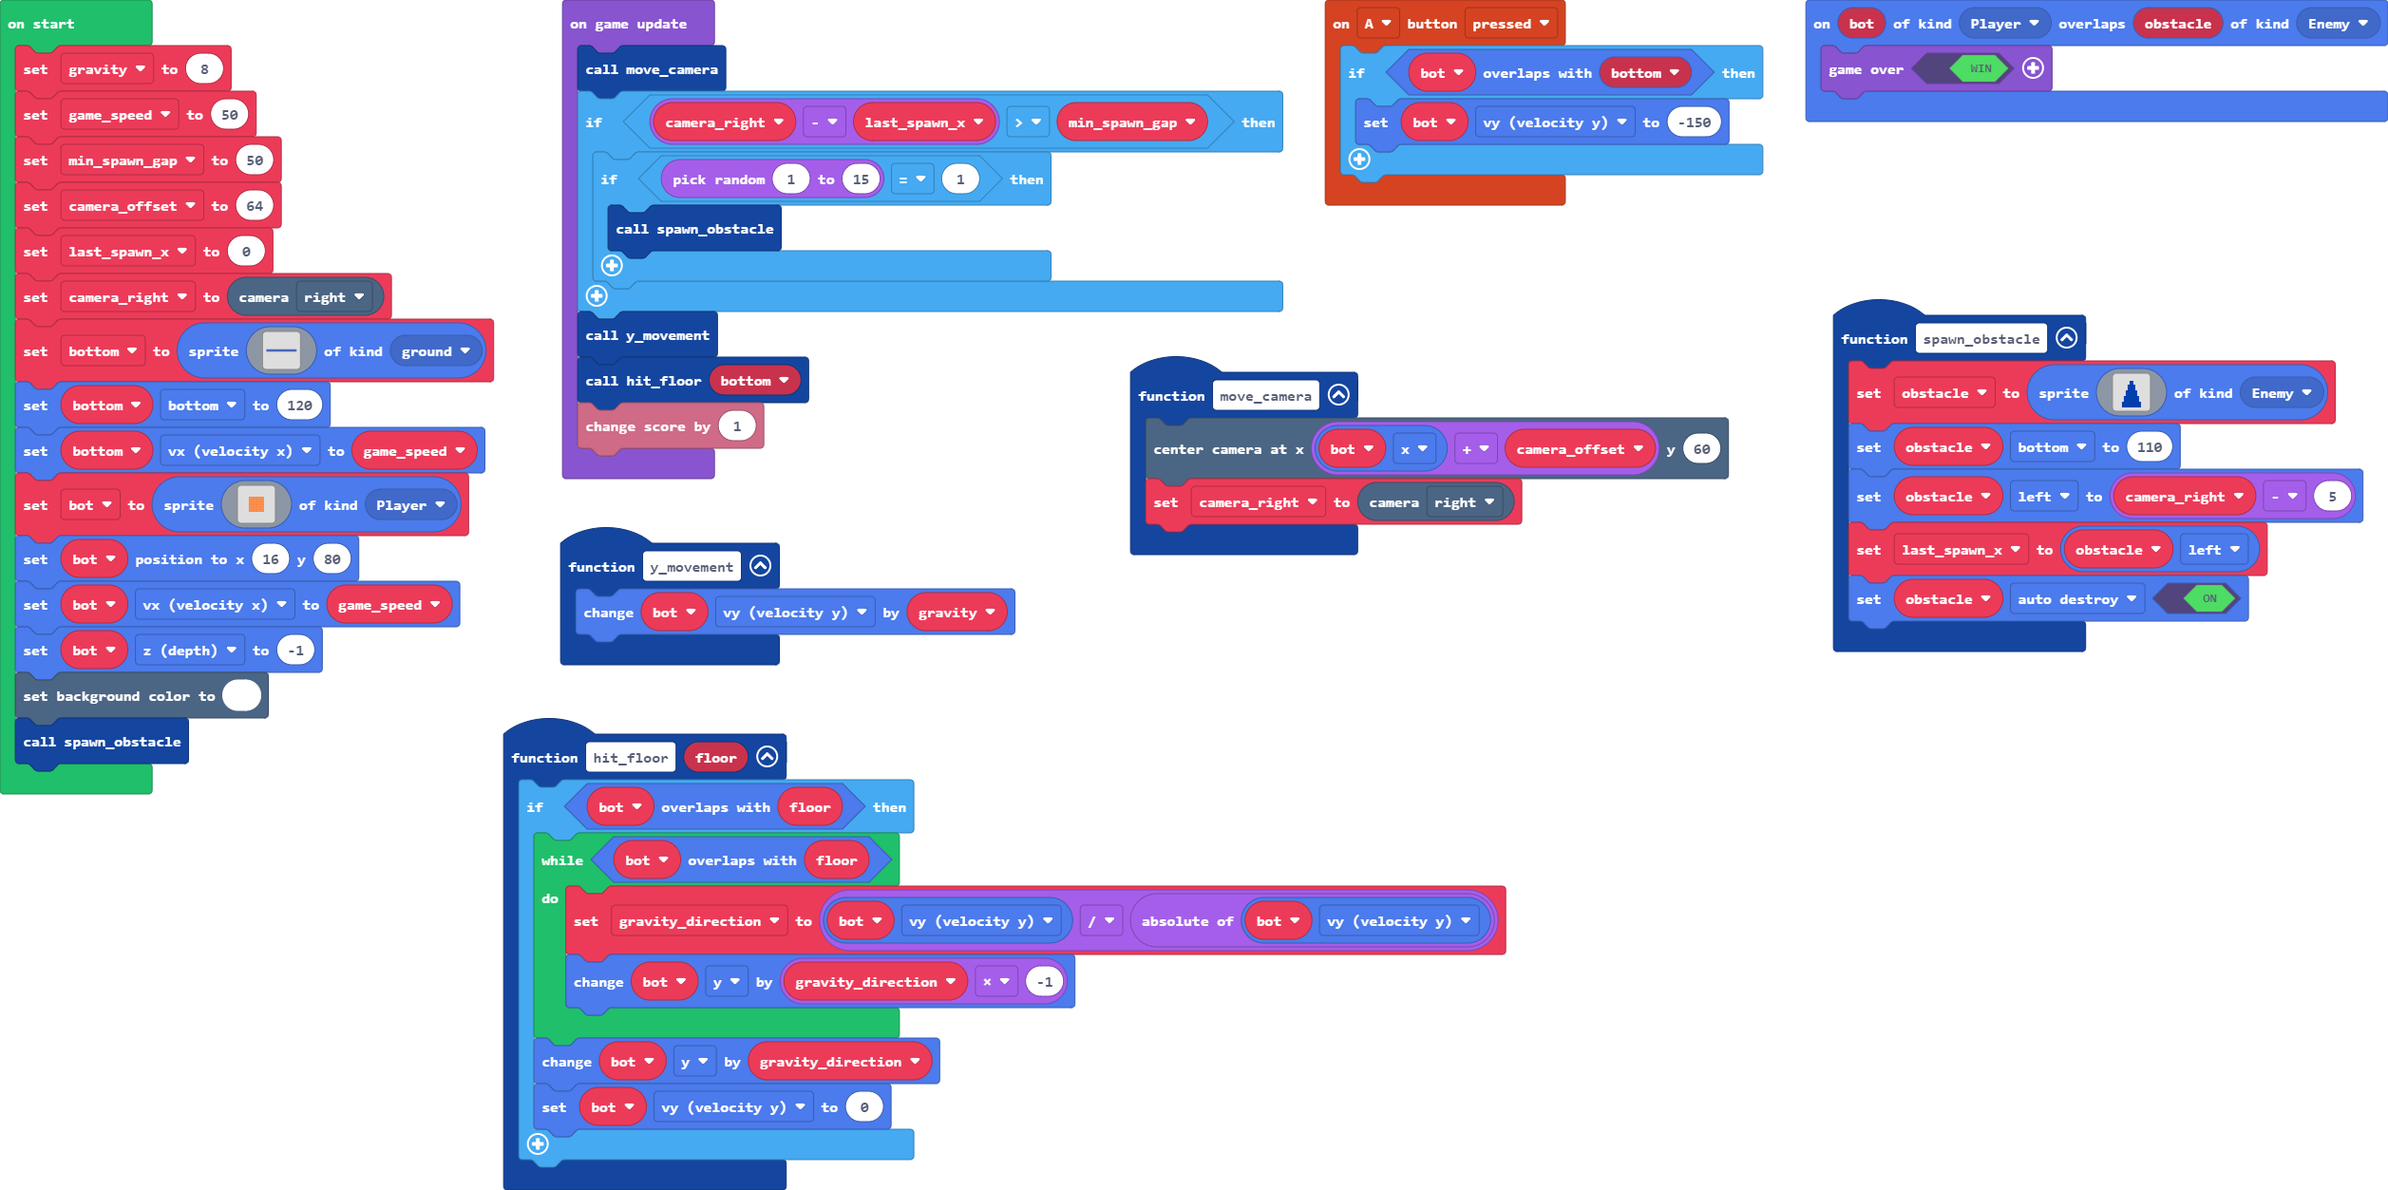
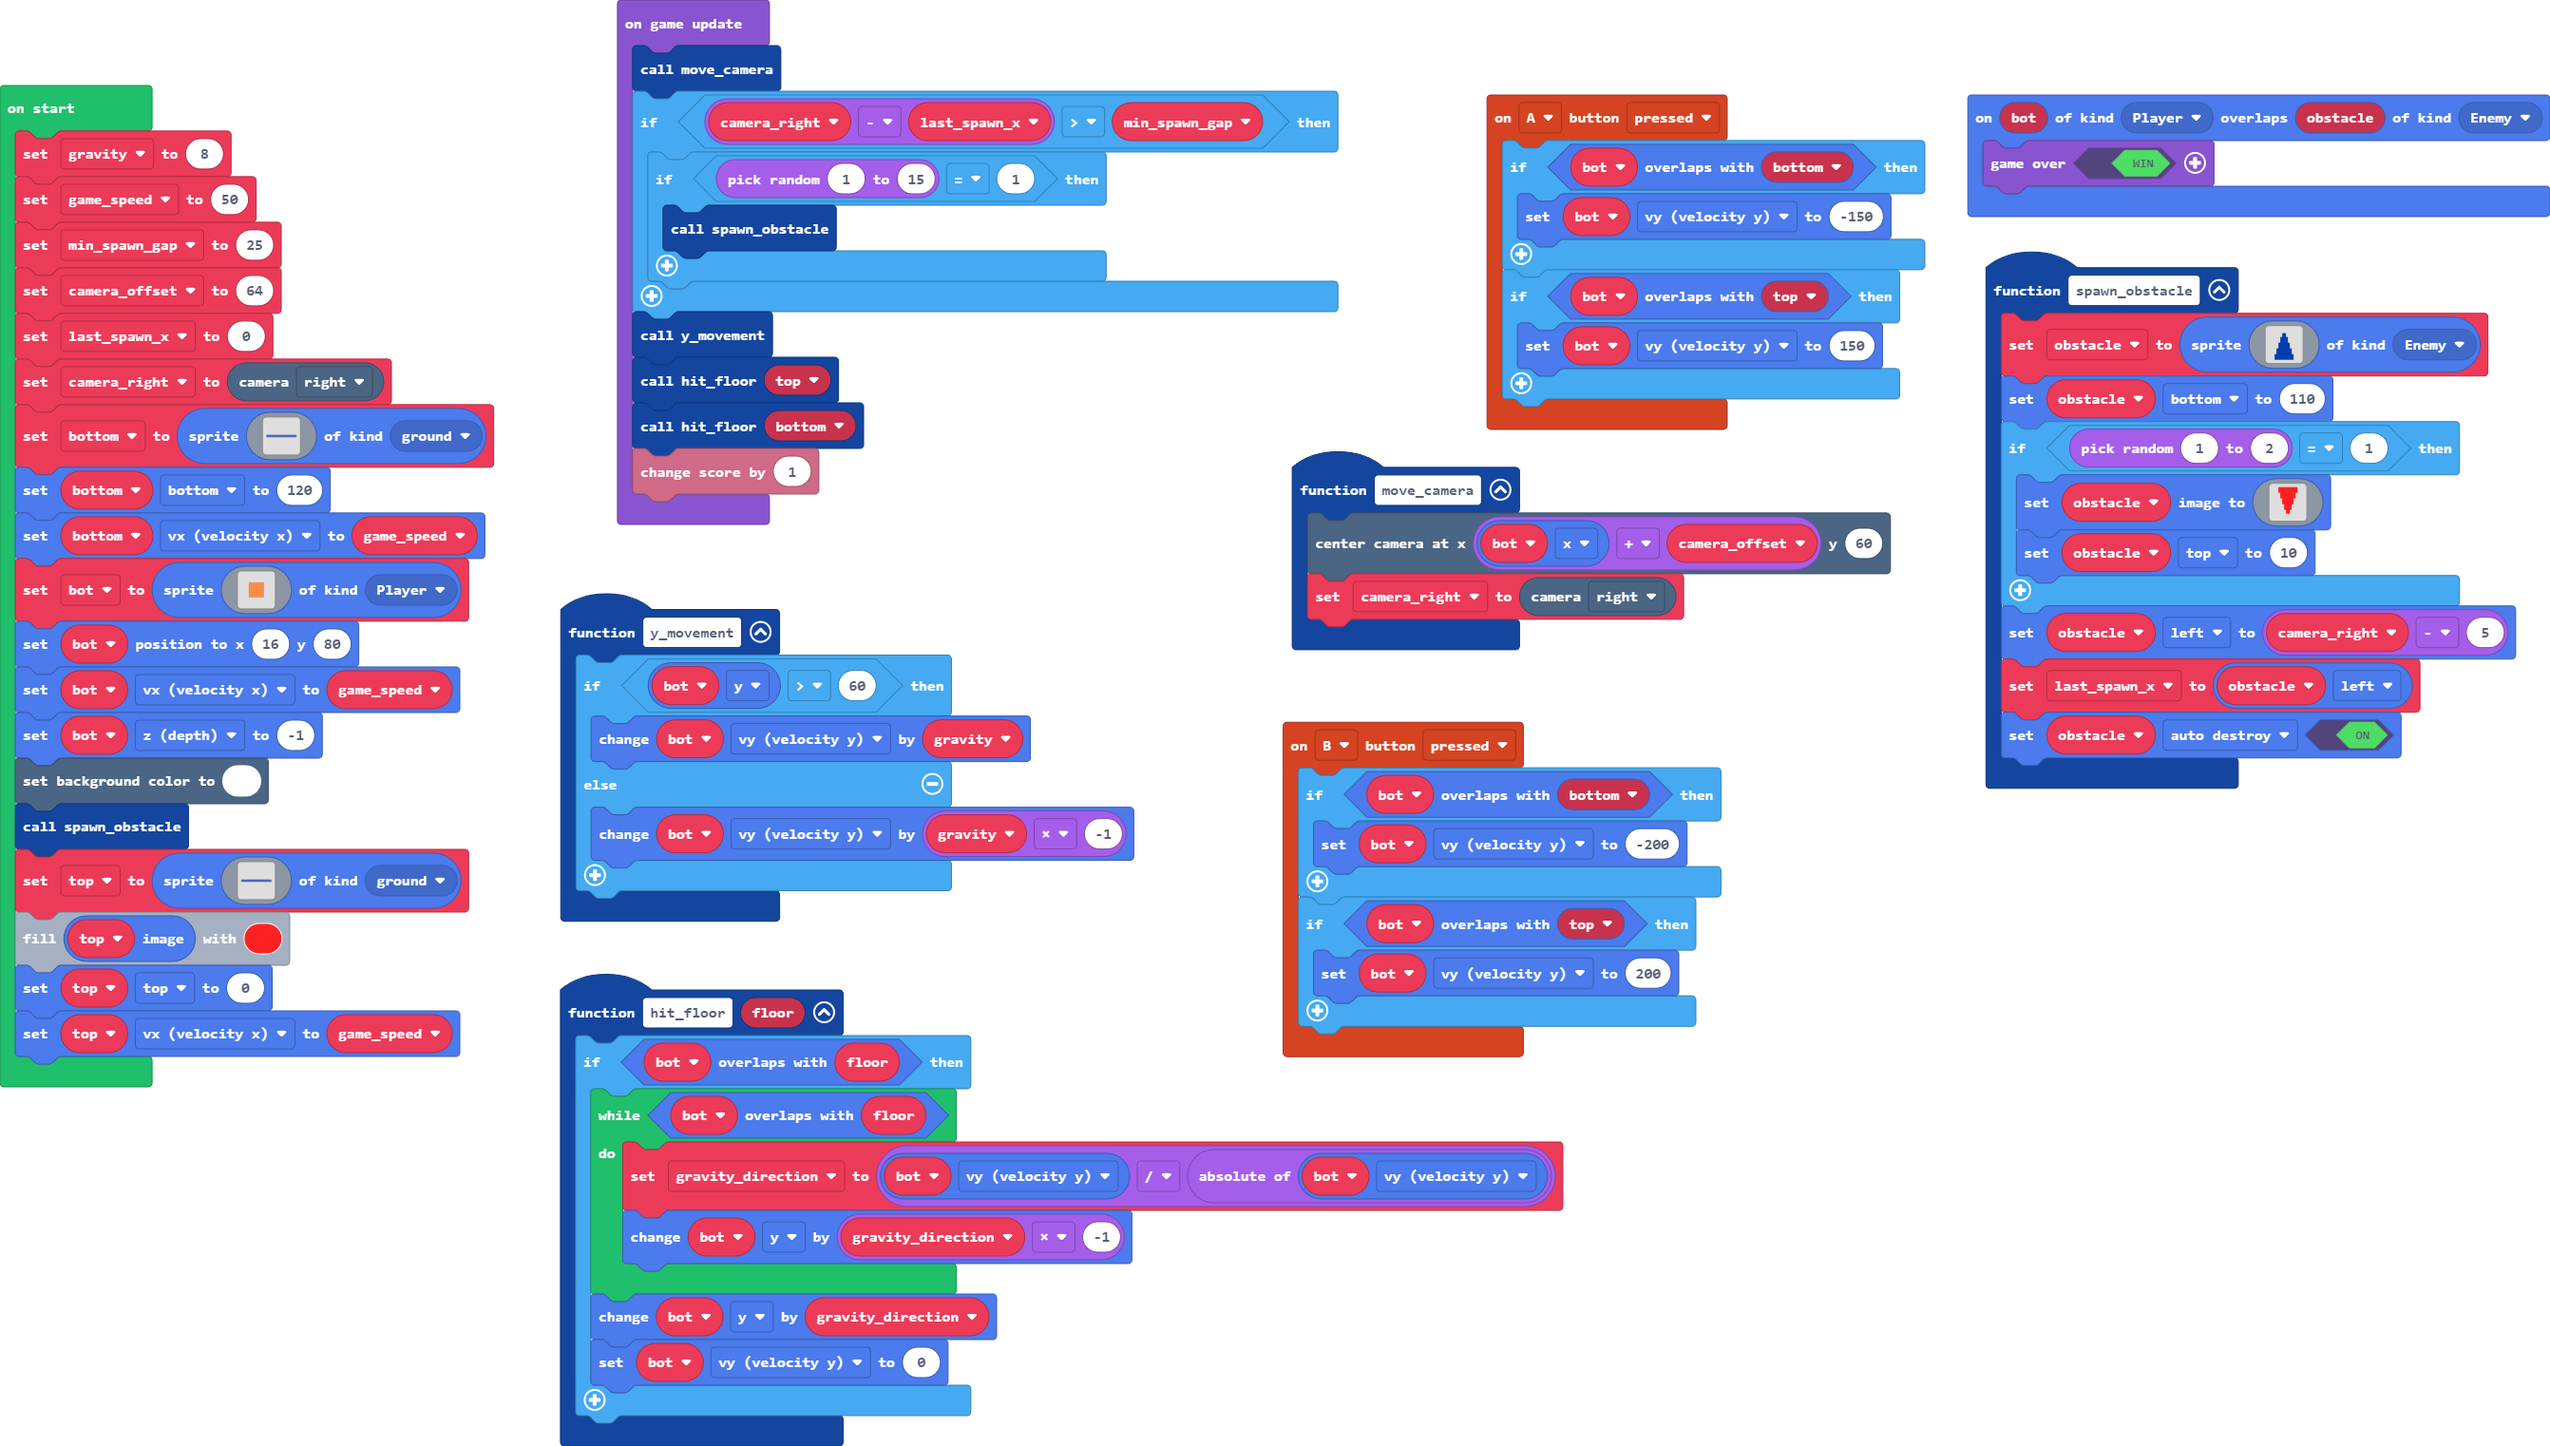
w1 hack

diff --git a/main.ts b/main.ts
@@ -11,9 +11,20 @@ function hit_floor (floor: Sprite) {
         bot.vy = 0
     }
 }
+controller.B.onEvent(ControllerButtonEvent.Pressed, function () {
+    if (bot.overlapsWith(bottom)) {
+        bot.vy = -200
+    }
+    if (bot.overlapsWith(top)) {
+        bot.vy = 200
+    }
+})
 controller.A.onEvent(ControllerButtonEvent.Pressed, function () {
     if (bot.overlapsWith(bottom)) {
         bot.vy = -150
+    }
+    if (bot.overlapsWith(top)) {
+        bot.vy = 150
     }
 })
 sprites.onOverlap(SpriteKind.Player, SpriteKind.Enemy, function (bot, obstacle) {
@@ -22,6 +33,10 @@ sprites.onOverlap(SpriteKind.Player, SpriteKind.Enemy, function (bot, obstacle) 
 function spawn_obstacle () {
     obstacle = sprites.create(assets.image`blue obstacle`, SpriteKind.Enemy)
     obstacle.bottom = 110
+    if (randint(1, 2) == 1) {
+        obstacle.setImage(assets.image`red obstacle`)
+        obstacle.top = 10
+    }
     obstacle.left = camera_right - 5
     last_spawn_x = obstacle.left
     obstacle.setFlag(SpriteFlag.AutoDestroy, true)
@@ -31,10 +46,15 @@ function move_camera () {
     camera_right = scene.cameraProperty(CameraProperty.Right)
 }
 function y_movement () {
-    bot.vy += gravity
+    if (bot.y > 60) {
+        bot.vy += gravity
+    } else {
+        bot.vy += gravity * -1
+    }
 }
 let obstacle: Sprite = null
 let gravity_direction = 0
+let top: Sprite = null
 let bot: Sprite = null
 let bottom: Sprite = null
 let camera_right = 0
@@ -43,7 +63,7 @@ let camera_offset = 0
 let gravity = 0
 gravity = 8
 let game_speed = 50
-let min_spawn_gap = 50
+let min_spawn_gap = 25
 camera_offset = 64
 last_spawn_x = 0
 camera_right = scene.cameraProperty(CameraProperty.Right)
@@ -56,6 +76,10 @@ bot.vx = game_speed
 bot.z = -1
 scene.setBackgroundColor(1)
 spawn_obstacle()
+top = sprites.create(assets.image`bottom`, SpriteKind.ground)
+top.image.fill(2)
+top.top = 0
+top.vx = game_speed
 game.onUpdate(function () {
     move_camera()
     if (camera_right - last_spawn_x > min_spawn_gap) {
@@ -64,6 +88,7 @@ game.onUpdate(function () {
         }
     }
     y_movement()
+    hit_floor(top)
     hit_floor(bottom)
     info.changeScoreBy(1)
 })

diff --git a/images.g.ts b/images.g.ts
@@ -58,6 +58,25 @@ namespace myImages {
 ....................
 ....................
 `;
+            case "image1":
+            case "red obstacle":return img`
+. . . 2 2 2 2 2 2 2 2 2 2 . . . 
+. . . 2 2 2 2 2 2 2 2 2 2 . . . 
+. . . 2 2 2 2 2 2 2 2 2 2 . . . 
+. . . . 2 2 2 2 2 2 2 2 . . . . 
+. . . . 2 2 2 2 2 2 2 2 . . . . 
+. . . . 2 2 2 2 2 2 2 2 . . . . 
+. . . . . 2 2 2 2 2 2 . . . . . 
+. . . . . 2 2 2 2 2 2 . . . . . 
+. . . . . 2 2 2 2 2 2 . . . . . 
+. . . . . . 2 2 2 2 . . . . . . 
+. . . . . . 2 2 2 2 . . . . . . 
+. . . . . . 2 2 2 2 . . . . . . 
+. . . . . . . 2 2 . . . . . . . 
+. . . . . . . 2 2 . . . . . . . 
+. . . . . . . . . . . . . . . . 
+. . . . . . . . . . . . . . . . 
+`;
         }
         return null;
     })
